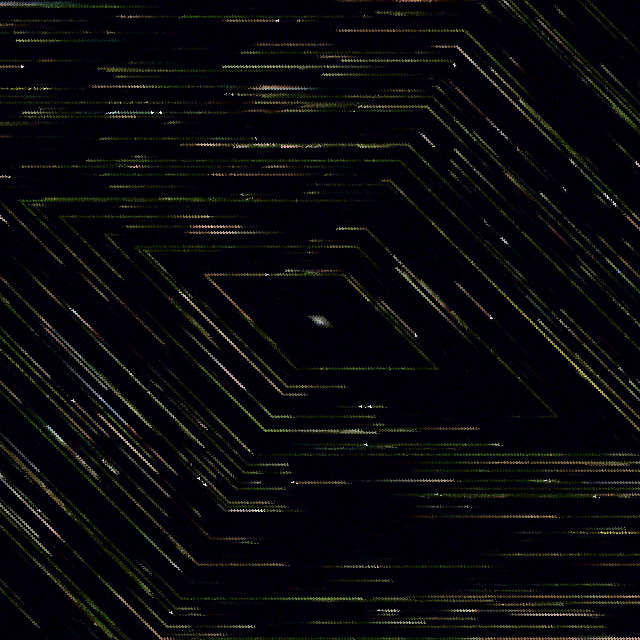
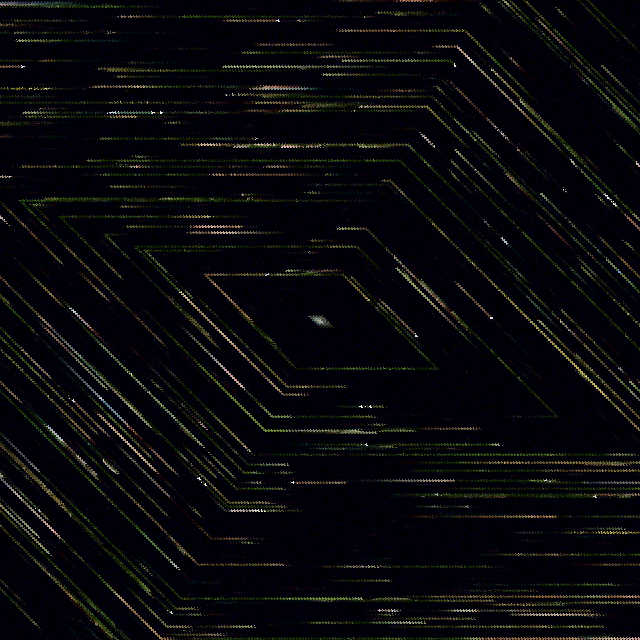
set one to always run

diff --git a/photos/one/index.js b/photos/one/index.js
@@ -1,5 +1,5 @@
 var co = require("co");
-var processImages = require("../../lib/process-images");
+var processImages = require("../../lib/image-tokenizer/markov-chain");
 var buildImage = require("../../lib/build-image");
 
 var listOfImages = require("./source-images.json");
@@ -15,7 +15,7 @@ var seed = "a0-b0-90.a0-b0-90.a0-b0-a0.a0-b0-90.a0-b0-a0.a0-b0-a0";
 
 co(function*(){
 
-	// yield processImages(pattern, listOfImages, phraseLength, db);
+	yield processImages(pattern, listOfImages, phraseLength, db);
 
 	yield buildImage(pattern, seed, makePixelPicker(function(key){
 		var red = getRed(key);
